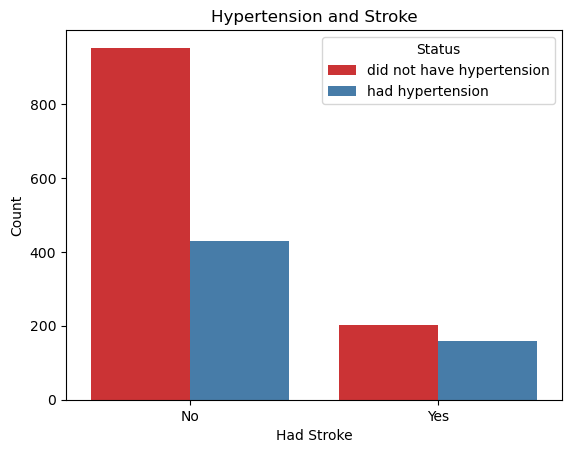
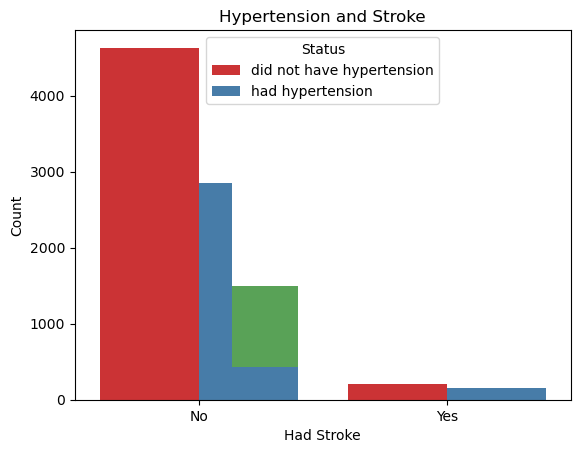
changed how to calculate corr

diff --git a/code/dataanalysis.py b/code/dataanalysis.py
@@ -6,6 +6,30 @@ import plotly.express as px
 import plotly.graph_objects as go
 import matplotlib.pyplot as plt
 import seaborn as sns
+from scipy.stats import chi2_contingency
+import itertools
+
+def normalize_data(df):
+    shuffled_data = df.sample(frac=1,random_state=4)
+    stroke_df = df.loc[df['stroke'] == 1]
+    non_stroke_df = df.loc[df['stroke'] == 0].sample(n=1000, random_state=101)
+    normalized_stroke = pd.concat([stroke_df, non_stroke_df])
+    return normalized_stroke
+
+
+def cramers_V(var1, var2):
+  crosstab =np.array(pd.crosstab(var1,var2, rownames=None, colnames=None)) # Cross table building
+  stat = chi2_contingency(crosstab)[0] # Keeping of the test statistic of the Chi2 test
+  obs = np.sum(crosstab) # Number of observations
+  mini = min(crosstab.shape)-1 # Take the minimum value between the columns and the rows of the cross table
+  return (stat/(obs*mini))
+
+def find_correlations(df):
+    corr_dict = {}
+    for col in df.columns:
+        corr = (col, cramers_V(df[col], df['stroke']))
+        corr_dict[col] = corr[1]
+    return corr_dict
 
 
 def find_risk_factor_correlation(risk_factor_df: pd.DataFrame) -> float:
@@ -26,15 +50,8 @@ def pair_visualization(df):
 '''
 
 def comparison_bar_charts(risk_factor_df: pd. DataFrame) -> None:
-    # normalize data
-    shuffled_data = risk_factor_df.sample(frac=1,random_state=4)
-    stroke_df = risk_factor_df.loc[risk_factor_df['stroke'] == 1]
-    non_stroke_df = risk_factor_df.loc[risk_factor_df['stroke'] == 0].sample(n=1000, random_state=101)
-    normalized_stroke = pd.concat([stroke_df, non_stroke_df])
-    
-
     # bar chart 1: stroke vs age
-    over_65_stroke = sns.countplot(x='stroke', hue = 'over_65', data = normalized_stroke, palette = "Set1")
+    over_65_stroke = sns.countplot(x='stroke', hue = 'over_65', data = risk_factor_df, palette = "Set1")
     over_65_stroke.set_xticklabels(["No", "Yes"])
     over_65_stroke.set(xlabel = 'Had Stroke', ylabel = 'Count')
     plt.legend(title='Age', labels=['Under 65', 'Over 65'])
@@ -43,39 +60,43 @@ def comparison_bar_charts(risk_factor_df: pd. DataFrame) -> None:
     # plt.show()
     
     # bar chart 2: stroke vs smoking
-    smoking_status_stroke = sns.countplot(x='stroke', hue = 'smoking_status', data = normalized_stroke, palette = "Set1")
+    smoking_status_stroke = sns.countplot(x='stroke', hue = 'smoking_status', data = risk_factor_df, palette = "Set1")
     smoking_status_stroke.set_xticklabels(["No", "Yes"])
     smoking_status_stroke.set(xlabel = 'Had Stroke', ylabel = 'Count')
     plt.legend(title='Smoking Status', labels=['Not a Smoker', 'Smoker', 'Unknown'])
     plt.title("Smoking Status and Stroke")
     plt.savefig('smoking_status.png',  bbox_inches='tight')
-    # plt.show()  
+    # plt.show()
+
     # bar chart 3: stroke vs gender
-    gender_stroke = sns.countplot(x='stroke', hue = 'gender', data = normalized_stroke, palette = "Set1")
+    gender_stroke = sns.countplot(x='stroke', hue = 'gender', data = risk_factor_df, palette = "Set1")
     gender_stroke.set_xticklabels(["No", "Yes"])
     gender_stroke.set(xlabel = 'Had Stroke', ylabel = 'Count')
     plt.legend(title='Gender', labels=['Female', 'Male'])
     plt.title("Gender and Stroke")
     plt.savefig('gender.png',  bbox_inches='tight')
     # plt.show()
+
     # bar chart 4: stroke vs heart disease
-    heart_disease_stroke = sns.countplot(x='stroke', hue = 'heart_disease', data = normalized_stroke, palette = "Set1")
+    heart_disease_stroke = sns.countplot(x='stroke', hue = 'heart_disease', data = risk_factor_df, palette = "Set1")
     heart_disease_stroke.set_xticklabels(["No", "Yes"])
     heart_disease_stroke.set(xlabel = 'Had Stroke', ylabel = 'Count')
     plt.legend(title='Status', labels=['did not have heart disease', 'had heart disease'])
     plt.title("Heart Disease and Stroke")
     plt.savefig('heart_disease.png',  bbox_inches='tight')
     # plt.show()
+
     # bar chart 5: stroke vs hypertension
-    hypertension_and_stroke = sns.countplot(x='stroke', hue = 'hypertension', data = normalized_stroke, palette = "Set1")
+    hypertension_and_stroke = sns.countplot(x='stroke', hue = 'hypertension', data = risk_factor_df, palette = "Set1")
     hypertension_and_stroke.set_xticklabels(["No", "Yes"])
     hypertension_and_stroke.set(xlabel = 'Had Stroke', ylabel = 'Count')
     plt.legend(title='Status', labels=['did not have hypertension', 'had hypertension'])
     plt.title("Hypertension and Stroke")
     plt.savefig('hypertension.png',  bbox_inches='tight')
     # plt.show()
+
     # bar chart 6: stroke vs married
-    marital_status_stroke = sns.countplot(x='stroke', hue = 'married', data = normalized_stroke, palette = "Set1")
+    marital_status_stroke = sns.countplot(x='stroke', hue = 'married', data = risk_factor_df, palette = "Set1")
     marital_status_stroke.set_xticklabels(["No", "Yes"])
     marital_status_stroke.set(xlabel = 'Had Stroke', ylabel = 'Count')
     plt.legend(title='Marital Status', labels=['not married', 'married'])
@@ -83,31 +104,34 @@ def comparison_bar_charts(risk_factor_df: pd. DataFrame) -> None:
     plt.savefig('Marital_status.png',  bbox_inches='tight')
     # plt.show()
     # bar chart 7: stroke vs high glucose
-    high_glucose_stroke = sns.countplot(x='stroke', hue = 'high_glucose', data = normalized_stroke, palette = "Set1")
+    high_glucose_stroke = sns.countplot(x='stroke', hue = 'high_glucose', data = risk_factor_df, palette = "Set1")
     high_glucose_stroke.set_xticklabels(["No", "Yes"])
     high_glucose_stroke.set(xlabel = 'Had Stroke', ylabel = 'Count')
     plt.legend(title='Status', labels=['normal glucose', 'high glucose'])
     plt.title("Glucose level and Stroke")
     plt.savefig('glucose.png',  bbox_inches='tight')
     # plt.show()
+
     # bar chart 8: stroke vs high BMI
-    high_bmi_stroke = sns.countplot(x='stroke', hue = 'high_BMI', data = normalized_stroke, palette = "Set1")
+    high_bmi_stroke = sns.countplot(x='stroke', hue = 'high_BMI', data = risk_factor_df, palette = "Set1")
     high_bmi_stroke.set_xticklabels(["No", "Yes"])
     high_bmi_stroke.set(xlabel = 'Had Stroke', ylabel = 'Count')
     plt.legend(title='Status', labels=['normal BMI', 'high BMI'])
     plt.title("High BMI and Stroke")
     plt.savefig('high_bmi.png',  bbox_inches='tight')
     # plt.show()
+
     # bar chart 9: stroke vs low BMI
-    low_bmi_stroke = sns.countplot(x='stroke', hue = 'low_BMI', data = normalized_stroke, palette = "Set1")
+    low_bmi_stroke = sns.countplot(x='stroke', hue = 'low_BMI', data = risk_factor_df, palette = "Set1")
     low_bmi_stroke.set_xticklabels(["No", "Yes"])
     low_bmi_stroke.set(xlabel = 'Had Stroke', ylabel = 'Count')
     plt.legend(title='Status', labels=['normal BMI', 'low BMI'])
     plt.title("low BMI and Stroke")
     plt.savefig('low_bmi.png',  bbox_inches='tight')
     #plt.show()
+
     # bar chart 10: stroke vs residence
-    residence_stroke = sns.countplot(x='stroke', hue = 'residence', data = normalized_stroke, palette = "Set1")
+    residence_stroke = sns.countplot(x='stroke', hue = 'residence', data = risk_factor_df, palette = "Set1")
     residence_stroke.set_xticklabels(["No", "Yes"])
     residence_stroke.set(xlabel = 'Had Stroke', ylabel = 'Count')
     plt.legend(title='residence type', labels=['rural', 'urban'])
@@ -115,7 +139,7 @@ def comparison_bar_charts(risk_factor_df: pd. DataFrame) -> None:
     plt.savefig('residence_type.png',  bbox_inches='tight')
     # plt.show()
 
-    # bar chart plotting all 
+    # bar chart plotting when stroke = 1 
 
 
 '''
@@ -237,7 +261,10 @@ def main():
     # df = pd.read_csv('datasets/stroke_data_1.csv')
     # visualization_correlation_matrix(df)
     # pair_visualization(df)
-    print(find_risk_factor_correlation(risk_factor_data))
+    normalized_risk_factor = normalize_data(risk_factor_data)
+
+    print(find_correlations(normalized_risk_factor))
+    # print(find_risk_factor_correlation(risk_factor_data))
     comparison_bar_charts(risk_factor_data)
 
     # map_risk_factors(map_data)

diff --git a/code/cleanup_ML.py b/code/cleanup_ML.py
@@ -3,19 +3,22 @@ import pandas as pd
 import numpy as np
 
 def risk_factor_df_ML(dataframe: str) -> pd.DataFrame:
-    correlations = dataanalysis.find_risk_factor_correlation(dataframe)
-    over_65 = correlations[1]
-    heart_disease = correlations[2]
-    hypertension = correlations[3]
-    married = correlations[4]
-    low_bmi = correlations[5]
-    residence = correlations[6]
-    high_BMI = correlations[7]
-    high_glucose = correlations[8]
+    correlations = dataanalysis.find_correlations(dataframe)    
+    over_65 = correlations['over_65']
+    heart_disease = correlations['heart_disease']
+    hypertension = correlations['hypertension']
+    married = correlations['married']
+    low_bmi = correlations['low_BMI']
+    residence = correlations['residence']
+    high_BMI = correlations['high_BMI']
+    high_glucose = correlations['high_glucose']
+    gender = correlations['gender']
+    residence = correlations['residence']
+    smoking_status = correlations['smoking_status']
     dataframe2 = dataframe.copy()
     dataframe2 = dataframe2[['hypertension', 'heart_disease',
                              'high_glucose','low_BMI','high_BMI', 
-                             'over_65', 'married', 'residence']]
+                             'over_65', 'married', 'residence', 'gender', 'smoking_status']]
     dataframe3 = dataframe2.apply(pd.Series.value_counts, axis=1)
     dataframe2["hypertension"] = np.where(dataframe2["hypertension"] == 1,
                                           hypertension, 0)
@@ -32,6 +35,8 @@ def risk_factor_df_ML(dataframe: str) -> pd.DataFrame:
                                      0)
     dataframe2['residence'] = np.where(dataframe2['residence'] == 1, residence,
                                        0)
+    dataframe2['gender'] = np.where(dataframe2['gender'] == 1, gender, 0)
+    dataframe2['smoking_status'] = np.where(dataframe2['smoking_status'] == 1, smoking_status, 0)
     dataframe4 = dataframe2.copy()
     dataframe4.loc[:, 'row_corr'] = dataframe2.sum(axis=1)
     dataframe4 = dataframe4[["row_corr"]]
@@ -43,6 +48,7 @@ def risk_factor_df_ML(dataframe: str) -> pd.DataFrame:
     mL_df = mL_df[["stroke", "risk_corr"]]
     mL_df = mL_df.fillna(0)
     return mL_df
+    
 
 
 

diff --git a/code/ML_and_visualization.py b/code/ML_and_visualization.py
@@ -1,5 +1,6 @@
 import cleanup_ML
 import datacleanup
+import dataanalysis
 import pandas as pd
 import matplotlib.pyplot as plt
 from sklearn.linear_model import LogisticRegression
@@ -8,16 +9,10 @@ from sklearn.model_selection import train_test_split
 
 
 def fit_and_predit_stroke(ml_df: pd.DataFrame) -> list:
-    # normalize data
-    shuffled_data = ml_df.sample(frac=1,random_state=4)
-    stroke_df = ml_df.loc[ml_df['stroke'] == 1]
-    non_stroke_df = ml_df.loc[ml_df['stroke'] == 0].sample(n=1000, random_state=101)
-    # non-stroke sufferers were reduced to 1000 to balance the data set.
-    normalized_stroke = pd.concat([stroke_df, non_stroke_df])
-    # features is the accuracy score
-    features = normalized_stroke.drop('stroke', axis=1)
+    # features is the risk_row_corr
+    features = ml_df.drop('stroke', axis=1)
     # label is stroke, which we want to predict
-    labels = normalized_stroke['stroke']
+    labels = ml_df['stroke']
     # Breaks the data into 80% train and 20% test
     features_train, features_test, labels_train, labels_test = train_test_split(features, labels, test_size=0.2)
     logistic_model = LogisticRegression(solver='liblinear', random_state=101)
@@ -45,7 +40,8 @@ def plot_confusion_matrix(cm: list) -> None:
 def main():
     risk_factor_data = datacleanup.create_risk_factor_df(
         'datasets/stroke_data_1.csv')
-    ml_data = cleanup_ML.risk_factor_df_ML(risk_factor_data)
+    normalized_df = dataanalysis.normalize_data(risk_factor_data)
+    ml_data = cleanup_ML.risk_factor_df_ML(normalized_df)
     confusion_matrix = fit_and_predit_stroke(ml_data)
     print(confusion_matrix)
     print(f"True Negatives: {((((confusion_matrix[0])[0]))[0])},\
